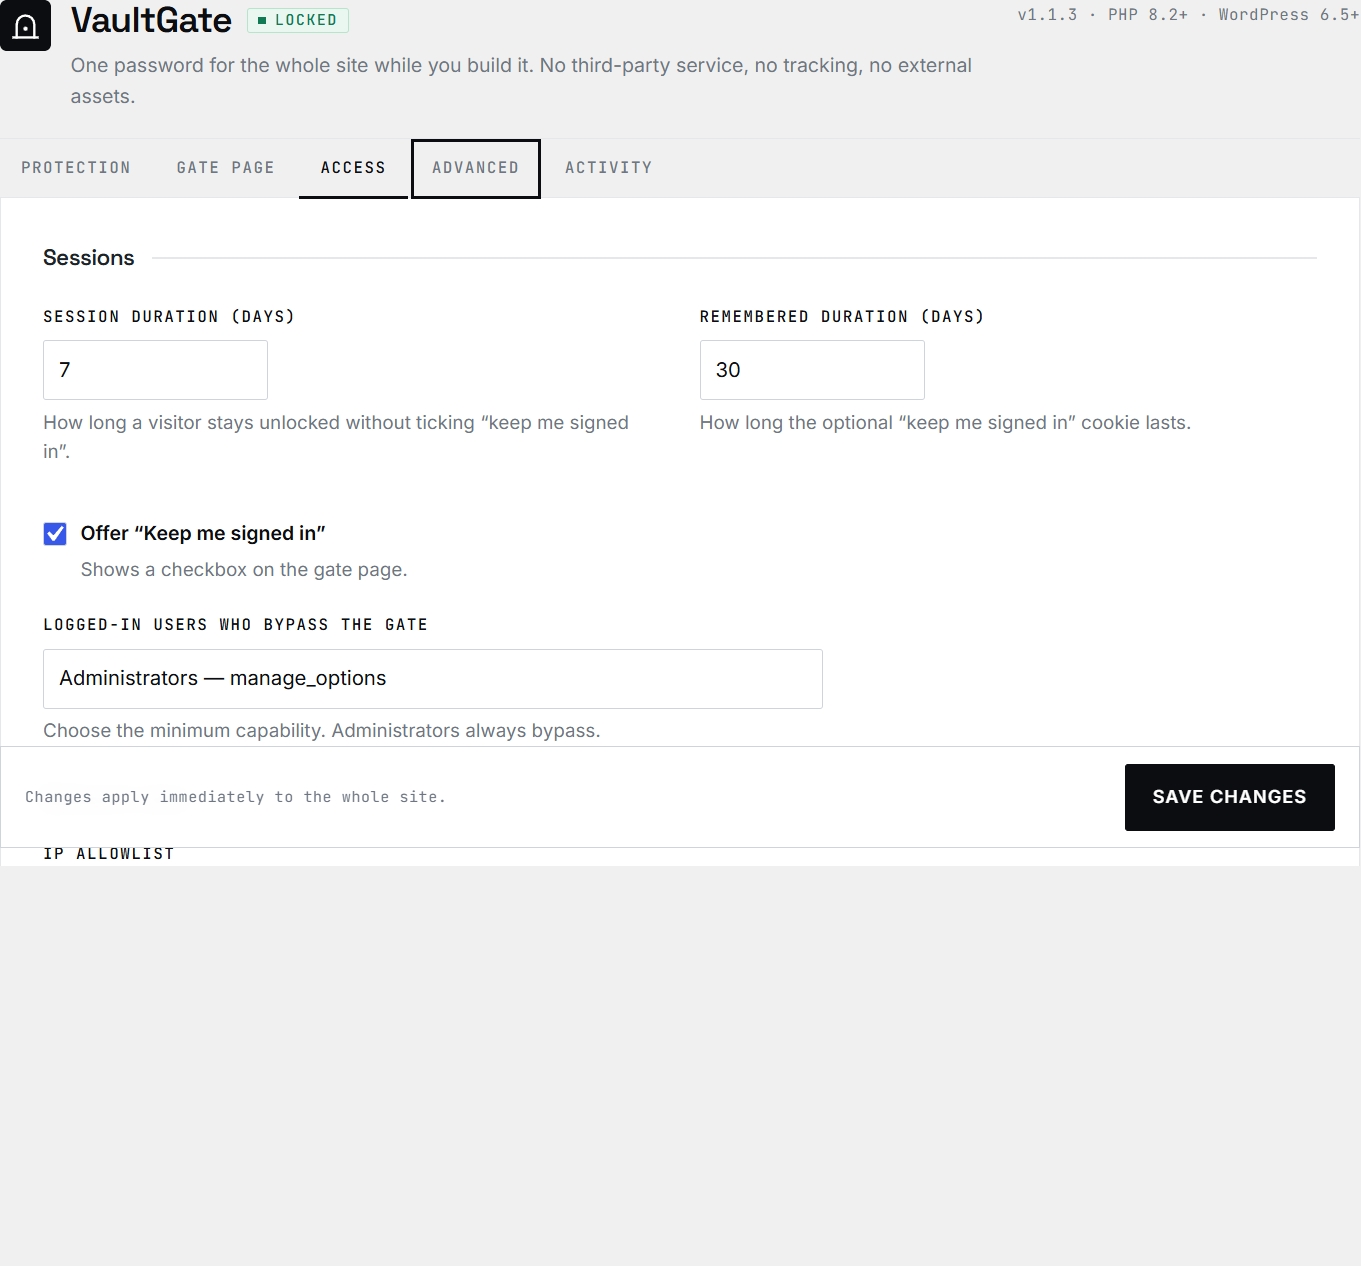
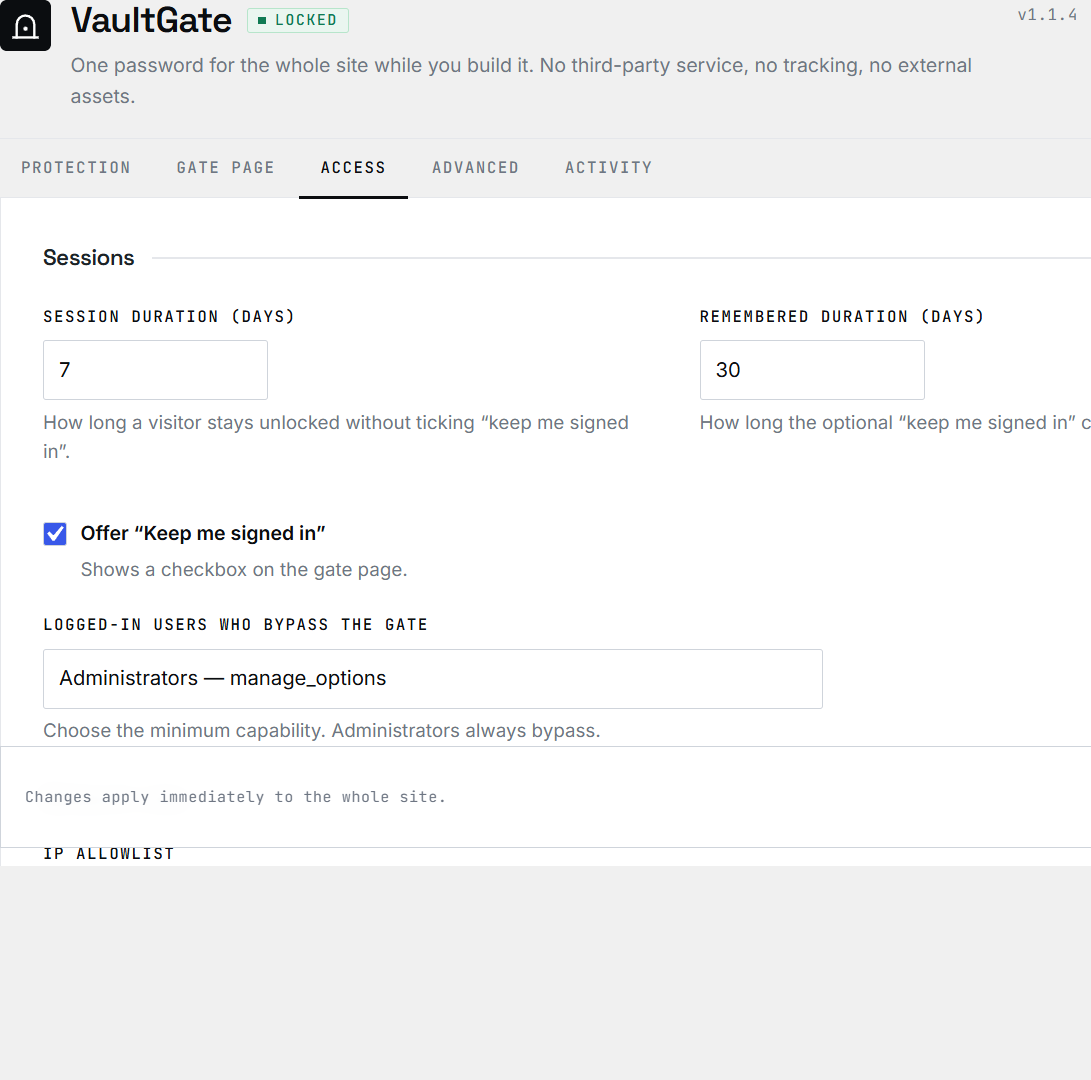
Captures du back office recadrees, vignettes cliquables
- trois captures de meme cadrage (727 px de large, 720 px de haut) : Protection, Gate page, Access
- chaque vignette de la table renvoie vers l'image pleine taille
- fichiers temporaires de verification supprimes

diff --git a/README.md b/README.md
@@ -48,7 +48,9 @@ One column, centred from 320 px up. It works without JavaScript; the eye that re
 
 | Protection | Gate page | Access |
 |---|---|---|
-| ![Protection: master switch, password with reveal, sign out every visitor](docs/admin-protection.png) | ![Gate page: logo from the Media Library, accent swatches, theme, texts](docs/admin-gate.png) | ![Access: sessions, bypass capability, IP allowlist, trusted proxies, excluded paths](docs/admin-access.png) |
+| [![Protection: master switch, password with reveal, sign out every visitor](docs/admin-protection.png)](docs/admin-protection.png) | [![Gate page: logo from the Media Library, accent swatches, theme, texts](docs/admin-gate.png)](docs/admin-gate.png) | [![Access: sessions, bypass capability, IP allowlist, trusted proxies, excluded paths](docs/admin-access.png)](docs/admin-access.png) |
+
+Click a panel for the full-size view.
 
 **Advanced** holds the surface switches (REST, feeds, sitemaps, AJAX, XML-RPC), the brute-force limits and the cleanup options; **Activity** lists the last 20 events.
 
